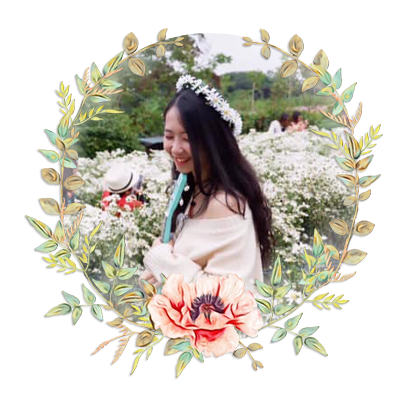
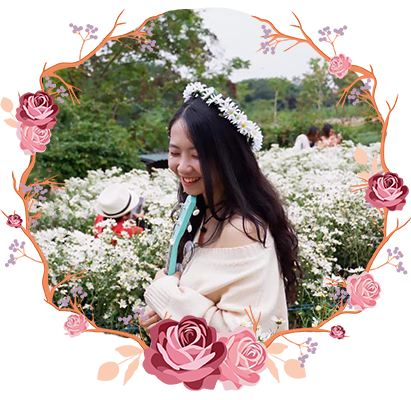
Edit Img

diff --git a/src/App/Modules/Landing/data.landing.ts b/src/App/Modules/Landing/data.landing.ts
@@ -7,7 +7,7 @@ export const LandingGuestsData = {
       info: {
         name: 'Name',
         subTitle: 'MC',
-        image: '../../../assets/guests/guest-11.png'
+        image: '../../../assets/guests/guest-12.png'
       }
     },
     {
@@ -27,7 +27,7 @@ export const LandingGuestsData = {
       info: {
         name: 'Name',
         subTitle: 'MC',
-        image: '../../../assets/guests/guest-33.png'
+        image: '../../../assets/guests/guest-32.png'
       }
     }
   ]

diff --git a/src/App/Modules/Landing/GuestsInfo.tsx b/src/App/Modules/Landing/GuestsInfo.tsx
@@ -28,7 +28,7 @@ const LandingGuestsInfo = ({ data, id }: Props) => {
       >
         <div>
           <div className="image-wrapper">
-            <img src={data.info.image} alt={data.info.name} />
+            <img src={data.info.image} alt={data.info.name} style={{ width: '95%' }} />
           </div>
           <h2>{data.info.name}</h2>
           <div>{data.info.subTitle}</div>

diff --git a/src/App/Modules/Landing/less/Guests.less b/src/App/Modules/Landing/less/Guests.less
@@ -1,7 +1,7 @@
 .Guests {
   background: #f7e9e8;
   padding: 100px 0;
-  min-height: 800px;
+  min-height: 100vh;
 
   &__content {
     width: 768px;
